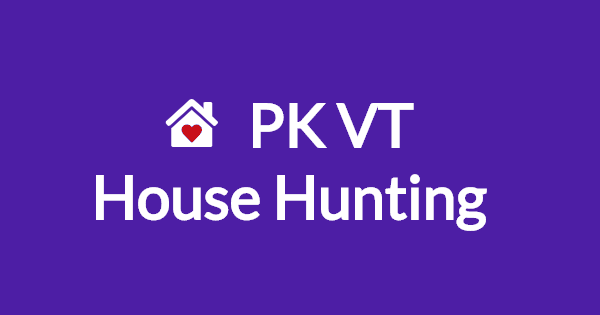
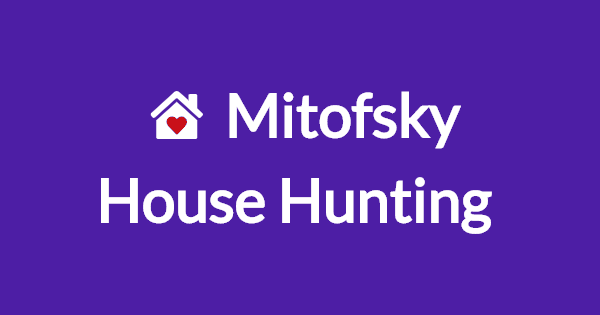
update brand

Changed region(s): [[0.15, 0.5429, 0.84, 0.7429], [0.24, 0.2857, 0.78, 0.4857]]

diff --git a/_site/index.html b/_site/index.html
@@ -4,8 +4,8 @@
     <meta charset="UTF-8">
     <meta name="viewport" content="width=device-width, initial-scale=1.0">
 
-    <title>Parker's Vermont House Hunting</title>
-    <meta name="title" content="Parker's Vermont House Hunting">
+    <title>Mitofsky House Hunting</title>
+    <meta name="title" content="Mitofsky House Hunting">
     <meta name="description" content="Some real estate listings aggregated by Craiglist and Beth">
 
     <link rel='shortcut icon' type='image/x-icon' href='/favicon.ico' />
@@ -14,15 +14,15 @@
     
     <meta property="og:type" content="article">
     <meta property="og:url" content="https://btv.house/">
-    <meta property="og:title" content="Parker's Vermont House Hunting">
+    <meta property="og:title" content="Mitofsky House Hunting">
     <meta property="og:description" content="Some real estate listings aggregated by Craiglist and Beth">
-    <meta property="og:image" content="/assets/thumbnail.png">
+    <meta property="og:image" content="https://btv.house/assets/thumbnail.png">
 
     
     <meta name="twitter:card" content="summary_large_image">
-    <meta name="twitter:title" content="Parker's Vermont House Hunting">
+    <meta name="twitter:title" content="Mitofsky House Hunting">
     <meta name="twitter:description" content="Some real estate listings aggregated by Craiglist and Beth">
-    <meta name="twitter:image" content="/assets/thumbnail.png">
+    <meta name="twitter:image" content="https://btv.house/assets/thumbnail.png">
 
 
     <link href="https://fonts.googleapis.com/css2?family=Lato&display=swap" rel="stylesheet">
@@ -179,7 +179,7 @@ footer a {
         <h1>
             <svg aria-hidden="true" focusable="false" data-prefix="fas" data-icon="home-heart" class="svg-inline--fa fa-home-heart fa-w-18" role="img" xmlns="http://www.w3.org/2000/svg" viewBox="0 0 576 512"><path fill="currentColor" d="M64 311.4V496c0 8.8 7.2 16 16 16h416c8.8 0 16-7.2 16-16V311.4c-6.7-5.5-44.7-38.3-224-196.4C107.9 273.9 70.4 306.1 64 311.4zm314.1-26.3c27.6 23 29.1 64.2 4.5 89.1l-84.7 85.6c-5.5 5.5-14.3 5.5-19.8 0l-84.7-85.6c-24.6-24.9-23.2-66.1 4.3-89.1 24-20 59.7-16.4 81.6 5.8l8.6 8.7 8.6-8.7c22-22.2 57.7-25.8 81.6-5.8zM64 311.4v-.3s-2.7 2.5 0 .3zm506.7-75.1L512 184.5V48c0-8.8-7.2-16-16-16h-64c-8.8 0-16 7.2-16 16v51.7L314.7 10.3c-15.3-13.7-38.2-13.7-53.5 0l-256 226c-6.6 5.9-7.1 16-1.2 22.6l21.4 23.8c5.9 6.6 16 7.1 22.6 1.2L277.4 81.7c6-5.3 15.1-5.3 21.2 0L527.9 284c6.6 5.9 16.7 5.4 22.6-1.2l21.4-23.8c5.9-6.7 5.4-16.8-1.2-22.7zM512 311.1v.3c2.9 2.3 0-.3 0-.3z"></path></svg>
 
-            PK VT House Hunting
+            Mitofsky House Hunting
         </h1>
     </header>
     <main>
